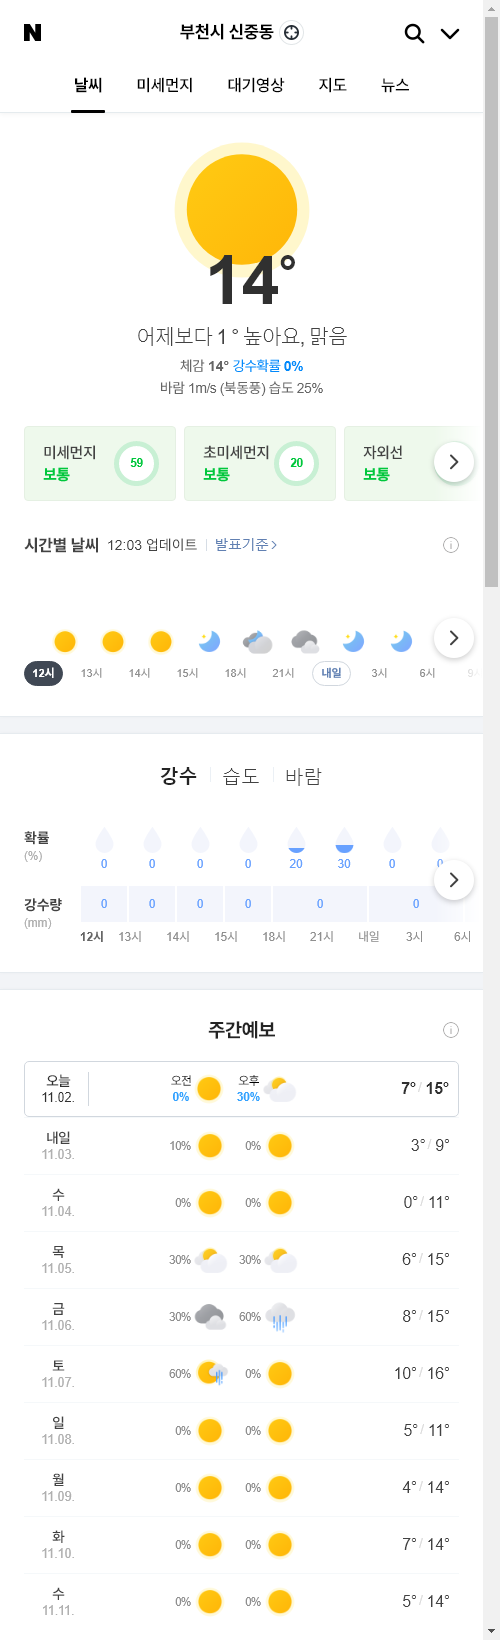
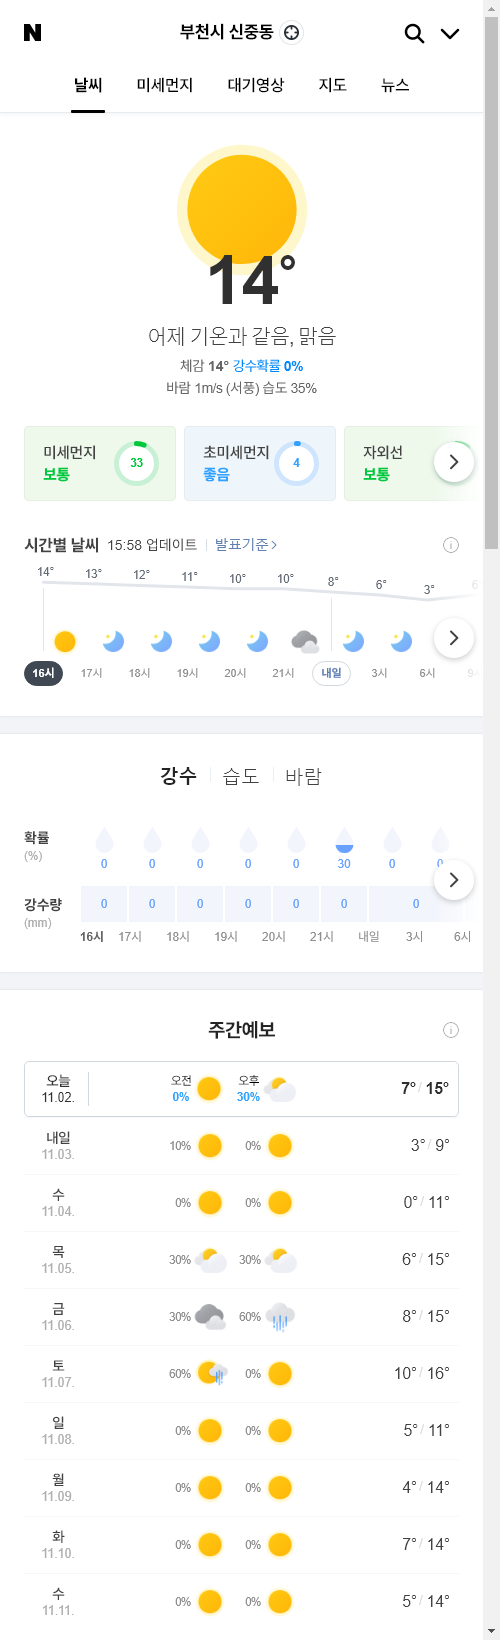
update result

diff --git a/README.md b/README.md
@@ -1,13 +1,13 @@
-##  2020-11-02 12:07:22   월요일 
-##### 날씨   -   어제보다 1 ° 높아요, 맑음
+##  2020-11-02 16:02:49   월요일 
+##### 날씨   -   어제 기온과 같음, 맑음
 <center><img src="../img/naver_weather_week.png"></center>
 ----
 ----
 ##### 지수
 <table border="1" bordercolor="blue" align = "center" >
 <tr align = "right" > <td>Item</td><td>Point</td><td>Diff</td><td>Rate</td><td>Buy</td><td>Sell</td><td>...</td>  </tr>
-<tr align = "right" > <td>KOSPI</td><td>2,287.19</td><td>20.04</td><td><font size="3" color="red" >0.88%</font> </td><td><font size="3" color="black">2,000</font></td><td><font size="3" color="black">3,000</font></td><td>0</td>  </tr>
-<tr align = "right" > <td>KOSDAQ</td><td>801.04</td><td>8.39</td><td><font size="3" color="red" >1.06%</font> </td><td><font size="3" color="black">0</font></td><td><font size="3" color="black">0</font></td><td>0</td>  </tr>
+<tr align = "right" > <td>KOSPI</td><td>2,300.16</td><td>33.01</td><td><font size="3" color="red" >1.46%</font> </td><td><font size="3" color="black">2,000</font></td><td><font size="3" color="black">3,000</font></td><td>0</td>  </tr>
+<tr align = "right" > <td>KOSDAQ</td><td>802.95</td><td>10.3</td><td><font size="3" color="red" >1.3%</font> </td><td><font size="3" color="black">0</font></td><td><font size="3" color="black">0</font></td><td>0</td>  </tr>
 </table>
 ----
 ##### 세계
@@ -16,14 +16,14 @@
 <tr align = "right" > <td>DOW</td><td>26,501.6</td><td>-157.51</td><td><font size="3" color="blue" >-0.59%</font></td><td><font size="3" color="black">0</font></td><td><font size="3" color="black">0</font></td><td>0</td>  </tr>
 <tr align = "right" > <td>NASDAQ</td><td>10,911.59</td><td>-274.0</td><td><font size="3" color="blue" >-2.45%</font></td><td><font size="3" color="black">0</font></td><td><font size="3" color="black">0</font></td><td>0</td>  </tr>
 <tr align = "right" > <td>S&P</td><td>3,269.96</td><td>-40.15</td><td><font size="3" color="blue" >-1.21%</font></td><td><font size="3" color="black">0</font></td><td><font size="3" color="black">0</font></td><td>0</td>  </tr>
-<tr align = "right" > <td>SHANHAI</td><td>3,221.77</td><td>-2.77</td><td><font size="3" color="blue" >-0.09%</font></td><td><font size="3" color="black">0</font></td><td><font size="3" color="black">0</font></td><td>0</td>  </tr>
-<tr align = "right" > <td>INDIA</td><td>39,614.07</td><td>-135.78</td><td><font size="3" color="blue" >-0.34%</font></td><td><font size="3" color="black">0</font></td><td><font size="3" color="black">0</font></td><td>0</td>  </tr>
+<tr align = "right" > <td>SHANHAI</td><td>3,223.04</td><td>-1.49</td><td><font size="3" color="blue" >-0.05%</font></td><td><font size="3" color="black">0</font></td><td><font size="3" color="black">0</font></td><td>0</td>  </tr>
+<tr align = "right" > <td>INDIA</td><td>39,479.86</td><td>-134.21</td><td><font size="3" color="blue" >-0.34%</font></td><td><font size="3" color="black">0</font></td><td><font size="3" color="black">0</font></td><td>0</td>  </tr>
 </table>
 ----
 ##### 시장
 <table border="1" bordercolor="blue" align = "center" >
 <tr align = "right" > <td>Item</td><td>Price</td><td>Diff</td><td>Rate</td><td>Buy</td><td>Sell</td><td>...</td>  </tr>
-<tr align = "right" > <td>USD</td><td>1,134.0</td><td>0.2</td><td><font size="3" color="red">0.02%</font></td><td><font size="3" color="black">1,110</font></td><td><font size="3" color="black">0</font></td><td>0</td>  </tr>
+<tr align = "right" > <td>USD</td><td>1,134.0</td><td>-0.3</td><td><font size="3" color="blue">-0.03%</font></td><td><font size="3" color="black">1,110</font></td><td><font size="3" color="black">0</font></td><td>0</td>  </tr>
 <tr align = "right" > <td>WTI</td><td>35.79</td><td>-0.38</td><td><font size="3" color="blue">-1.05%</font></td><td><font size="3" color="black">29.0</font></td><td><font size="3" color="black">0</font></td><td>0</td>  </tr>
 <tr align = "right" > <td>GOLD</td><td>1,877.0</td><td>11.8</td><td><font size="3" color="red">0.63%</font></td><td><font size="3" color="black">0</font></td><td><font size="3" color="black">0</font></td><td>0</td>  </tr>
 </table>
@@ -32,22 +32,22 @@
 <table border="1" bordercolor="blue" align = "center" >
 <tr align = "right" > <td>Item</td><td>Price</td><td>Diff</td><td>Rate</td><td>Purchased</td><td>Sell</td><td>Buy</td>  </tr>
 <tr align = "right" > <td>한국 전력</td><td>20,350</td><td>400</td><td><font size="3" color="red">2.01%</font></td><td>25,720</td><td><font size="3" color="black">30,000</font></td><td><font size="3" color="black">14,000</font></td>  </tr>
-<tr align = "right" > <td>삼성엔지니어.</td><td>11,800</td><td>50</td><td><font size="3" color="red">0.43%</font></td><td>18,935</td><td><font size="3" color="black">20,000</font></td><td><font size="3" color="black">8,000</font></td>  </tr>
-<tr align = "right" > <td>CJ CGV</td><td>19,850</td><td>-250</td><td><font size="3" color="blue">-1.24%</font></td><td>34,895</td><td><font size="3" color="black">36,000</font></td><td><font size="3" color="black">0</font></td>  </tr>
-<tr align = "right" > <td>아모레퍼시픽</td><td>160,000</td><td>2,000</td><td><font size="3" color="red">1.27%</font></td><td>235,350</td><td><font size="3" color="black">240,000</font></td><td><font size="3" color="black">130,000</font></td>  </tr>
-<tr align = "right" > <td>한화</td><td>24,550</td><td>500</td><td><font size="3" color="red">2.08%</font></td><td>25,550</td><td><font size="3" color="black">30,000</font></td><td><font size="3" color="black">20,000</font></td>  </tr>
-<tr align = "right" > <td>NAVER</td><td>286,500</td><td>-3,500</td><td><font size="3" color="blue">-1.21%</font></td><td>147,200</td><td><font size="3" color="black">400,000</font></td><td><font size="3" color="black">150,000</font></td>  </tr>
-<tr align = "right" > <td>LG 화학우</td><td>303,500</td><td>-6,500</td><td><font size="3" color="blue">-2.1%</font></td><td>202,490</td><td><font size="3" color="black">500,000</font></td><td><font size="3" color="black">200,000</font></td>  </tr>
-<tr align = "right" > <td>스튜디오드래.</td><td>78,800</td><td>600</td><td><font size="3" color="red">0.77%</font></td><td>81,243</td><td><font size="3" color="black">100,000</font></td><td><font size="3" color="black">78,000</font></td>  </tr>
-<tr align = "right" > <td>글로벌럭셔리</td><td>11,880</td><td>110</td><td><font size="3" color="red">0.93%</font></td><td>0</td><td><font size="3" color="black">15,000</font></td><td><font size="3" color="black">10,000</font></td>  </tr>
-<tr align = "right" > <td>QV미국IT</td><td>22,940</td><td>-230</td><td><font size="3" color="blue">-0.99%</font></td><td>0</td><td><font size="3" color="black">30,000</font></td><td><font size="3" color="black">20,000</font></td>  </tr>
-<tr align = "right" > <td>호텔 신라</td><td>75,100</td><td>900</td><td><font size="3" color="red">1.21%</font></td><td>72,800</td><td><font size="3" color="black">100,000</font></td><td><font size="3" color="black">70,000</font></td>  </tr>
-<tr align = "right" > <td>S-Oil</td><td>55,100</td><td>800</td><td><font size="3" color="red">1.47%</font></td><td>62,842</td><td><font size="3" color="black">100,000</font></td><td><font size="3" color="black">50,000</font></td>  </tr>
-<tr align = "right" > <td>LG전자</td><td>84,800</td><td>800</td><td><font size="3" color="red">0.95%</font></td><td>82,022</td><td><font size="3" color="black">100,000</font></td><td><font size="3" color="black">60,000</font></td>  </tr>
-<tr align = "right" > <td>지역난방공사</td><td>36,400</td><td>100</td><td><font size="3" color="red">0.28%</font></td><td>43,590</td><td><font size="3" color="black">60,000</font></td><td><font size="3" color="black">30,000</font></td>  </tr>
-<tr align = "right" > <td>KOEDX은행</td><td>5,710</td><td>215</td><td><font size="3" color="red">3.91%</font></td><td>5,178</td><td><font size="3" color="black">6,000</font></td><td><font size="3" color="black">4,500</font></td>  </tr>
-<tr align = "right" > <td>삼성 전자우</td><td>50,800</td><td>700</td><td><font size="3" color="red">1.4%</font></td><td>48,250</td><td><font size="3" color="black">56,000</font></td><td><font size="3" color="black">45,000</font></td>  </tr>
-<tr align = "right" > <td>한화에어로스.</td><td>25,350</td><td>250</td><td><font size="3" color="red">1.0%</font></td><td>25,700</td><td><font size="3" color="black">30,000</font></td><td><font size="3" color="black">24,000</font></td>  </tr>
-<tr align = "right" > <td>한국금융지주</td><td>69,200</td><td>600</td><td><font size="3" color="red">0.87%</font></td><td>0</td><td><font size="3" color="black">82,000</font></td><td><font size="3" color="black">60,000</font></td>  </tr>
+<tr align = "right" > <td>삼성엔지니어.</td><td>11,500</td><td>-250</td><td><font size="3" color="blue">-2.13%</font></td><td>18,935</td><td><font size="3" color="black">20,000</font></td><td><font size="3" color="black">8,000</font></td>  </tr>
+<tr align = "right" > <td>CJ CGV</td><td>19,950</td><td>-150</td><td><font size="3" color="blue">-0.75%</font></td><td>34,895</td><td><font size="3" color="black">36,000</font></td><td><font size="3" color="black">0</font></td>  </tr>
+<tr align = "right" > <td>아모레퍼시픽</td><td>158,500</td><td>500</td><td><font size="3" color="red">0.32%</font></td><td>235,350</td><td><font size="3" color="black">240,000</font></td><td><font size="3" color="black">130,000</font></td>  </tr>
+<tr align = "right" > <td>한화</td><td>24,600</td><td>550</td><td><font size="3" color="red">2.29%</font></td><td>25,550</td><td><font size="3" color="black">30,000</font></td><td><font size="3" color="black">20,000</font></td>  </tr>
+<tr align = "right" > <td>NAVER</td><td>285,500</td><td>-4,500</td><td><font size="3" color="blue">-1.55%</font></td><td>147,200</td><td><font size="3" color="black">400,000</font></td><td><font size="3" color="black">150,000</font></td>  </tr>
+<tr align = "right" > <td>LG 화학우</td><td>309,000</td><td>-1,000</td><td><font size="3" color="blue">-0.32%</font></td><td>202,490</td><td><font size="3" color="black">500,000</font></td><td><font size="3" color="black">200,000</font></td>  </tr>
+<tr align = "right" > <td>스튜디오드래.</td><td>78,500</td><td>300</td><td><font size="3" color="red">0.38%</font></td><td>81,243</td><td><font size="3" color="black">100,000</font></td><td><font size="3" color="black">78,000</font></td>  </tr>
+<tr align = "right" > <td>글로벌럭셔리</td><td>11,895</td><td>125</td><td><font size="3" color="red">1.06%</font></td><td>0</td><td><font size="3" color="black">15,000</font></td><td><font size="3" color="black">10,000</font></td>  </tr>
+<tr align = "right" > <td>QV미국IT</td><td>23,090</td><td>-80</td><td><font size="3" color="blue">-0.35%</font></td><td>0</td><td><font size="3" color="black">30,000</font></td><td><font size="3" color="black">20,000</font></td>  </tr>
+<tr align = "right" > <td>호텔 신라</td><td>74,900</td><td>700</td><td><font size="3" color="red">0.94%</font></td><td>72,800</td><td><font size="3" color="black">100,000</font></td><td><font size="3" color="black">70,000</font></td>  </tr>
+<tr align = "right" > <td>S-Oil</td><td>55,000</td><td>700</td><td><font size="3" color="red">1.29%</font></td><td>62,842</td><td><font size="3" color="black">100,000</font></td><td><font size="3" color="black">50,000</font></td>  </tr>
+<tr align = "right" > <td>LG전자</td><td>85,500</td><td>1,500</td><td><font size="3" color="red">1.79%</font></td><td>82,022</td><td><font size="3" color="black">100,000</font></td><td><font size="3" color="black">60,000</font></td>  </tr>
+<tr align = "right" > <td>지역난방공사</td><td>36,950</td><td>650</td><td><font size="3" color="red">1.79%</font></td><td>43,590</td><td><font size="3" color="black">60,000</font></td><td><font size="3" color="black">30,000</font></td>  </tr>
+<tr align = "right" > <td>KOEDX은행</td><td>5,740</td><td>245</td><td><font size="3" color="red">4.46%</font></td><td>5,178</td><td><font size="3" color="black">6,000</font></td><td><font size="3" color="black">4,500</font></td>  </tr>
+<tr align = "right" > <td>삼성 전자우</td><td>51,200</td><td>1,100</td><td><font size="3" color="red">2.2%</font></td><td>48,250</td><td><font size="3" color="black">56,000</font></td><td><font size="3" color="black">45,000</font></td>  </tr>
+<tr align = "right" > <td>한화에어로스.</td><td>25,400</td><td>300</td><td><font size="3" color="red">1.2%</font></td><td>25,700</td><td><font size="3" color="black">30,000</font></td><td><font size="3" color="black">24,000</font></td>  </tr>
+<tr align = "right" > <td>한국금융지주</td><td>69,700</td><td>1,100</td><td><font size="3" color="red">1.6%</font></td><td>0</td><td><font size="3" color="black">82,000</font></td><td><font size="3" color="black">60,000</font></td>  </tr>
 </table>
 ----
